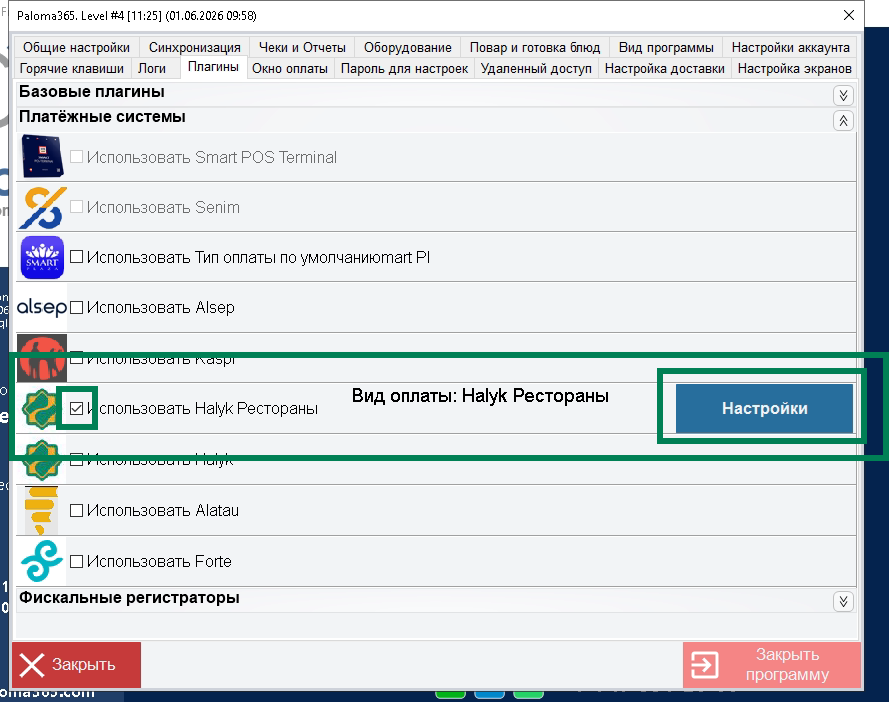
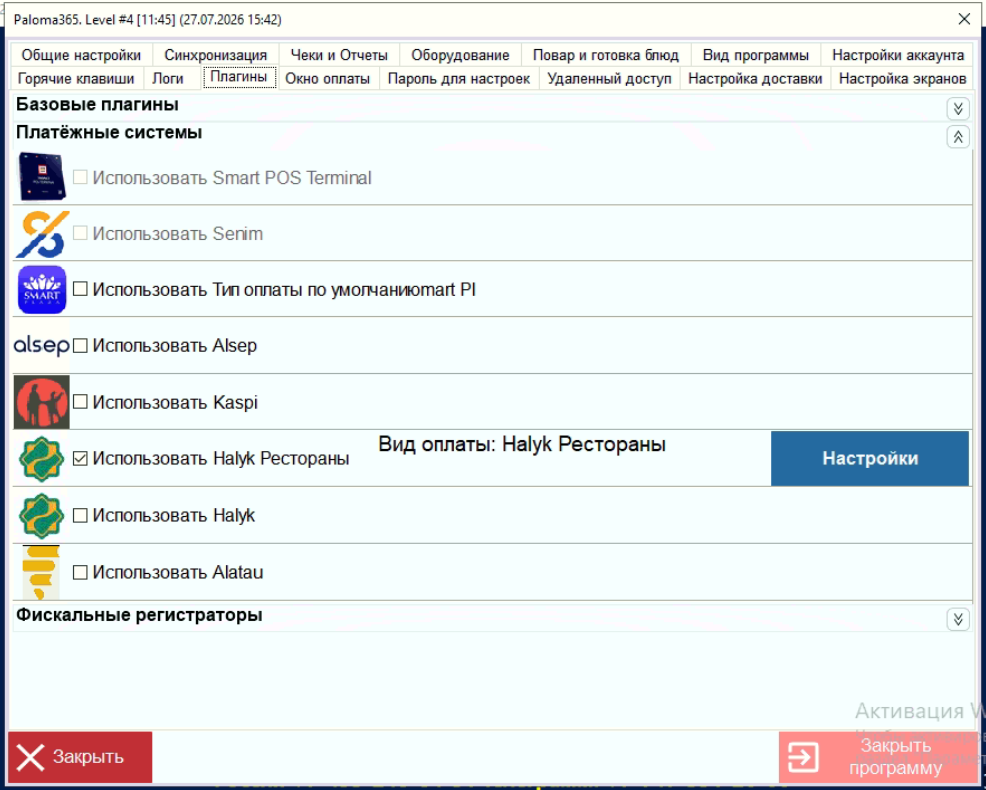
Сверка Paloma365: QR по пречеку в разработке, свежие скриншоты плагина
Claude-Session: https://claude.ai/code/session_018g3M5mndGU9Y8FXsRkuE2M

Changed region(s): [[0.0, 0.0, 1.0, 1.0], [0.3645, 0.5385, 0.6985, 0.5983]]

diff --git a/onboarding/04-tables/README.md b/onboarding/04-tables/README.md
@@ -133,7 +133,7 @@ notion: https://app.notion.com/p/3e4433fe004781d197e8f56616b7d5da
 | <b>iiko</b> | Доступны режимы QR на пречеке, «Общий», «По столам». Если столов нет на портале — перезапуск кассы iiko от имени администратора, затем разработчики Halyk Рестораны. Проверка связи: <b>«Дополнения» → «Cloud connection status»</b>. QR на пречеке требует добавления QR в шаблон пречека (см. ниже). |
 | <b>r\_keeper</b> | В портале — режимы «Общий» и «По столам». Сверяйте столы портала со столами r\_keeper. Проблемы со столами — дилеру и инженеру Halyk Bank. QR по пречеку — уточнить у дилера / инженера. |
 | <b>Poster</b> | В портале — режимы «Общий» и «По столам». QR на пречеке для Poster — в разработке. Сверяйте столы портала со столами Poster. Расхождения — инженеру Halyk Bank. |
-| <b>Paloma365</b> | В портале — режимы «Общий» (гиперссылка на профиль ресторана в HSA) и «По столам» (привязка к физическим столам). Соблюдать нумерацию столов. |
+| <b>Paloma365</b> | В портале — режимы «Общий» (гиперссылка на профиль ресторана в HSA) и «По столам» (привязка к физическим столам). QR на пречеке для Paloma365 — в разработке. Соблюдать нумерацию столов. |
 | <b>ROSTA</b> | Отдельных указаний по привязке столов в источниках нет — применяйте общие правила этого этапа. |
 
 ---

diff --git a/onboarding/02-preparation/paloma365.md b/onboarding/02-preparation/paloma365.md
@@ -21,7 +21,7 @@ notion: https://app.notion.com/p/3e4433fe004781d3b4f0c37f5ee93d0f
 
 1. После обновления откройте **«Меню» → «Настройки» → вкладка «Плагины»**.
 2. В блоке **«Платёжные системы»** включите **«Использовать Halyk Рестораны»**.
-3. Кнопка **«Настройки»** в строке плагина открывает **окно плагина** (поля «Pairing Code», «Вид оплаты», «Меню»; кнопки «Применить» / «Отмена»).
+3. Кнопка **«Настройки»** в строке плагина открывает **окно плагина** (поля «Pairing Code», «Вид оплаты», «Меню»; кнопки «Применить» / «Отмена»). После настройки в строке плагина отображается выбранный вид оплаты, например «Вид оплаты: Halyk Рестораны».
 
 ![Вкладка «Плагины»: «Использовать Halyk Рестораны» и кнопка «Настройки»](images/paloma365-plugins.png)
 

diff --git a/onboarding/01-requirements/README.md b/onboarding/01-requirements/README.md
@@ -41,7 +41,7 @@ erp: "Все ERP"
 | Функция | iiko | r_keeper | Poster | Paloma365 | ROSTA |
 |---|---|---|---|---|---|
 | QR-оплата заказа на столе | ✅ | ✅ | ✅ | ✅ | ✅ |
-| QR-оплата по пречеку | ✅ | ✅ (настройку уточнить у дилера / инженера) | 🚧 в разработке | — | — |
+| QR-оплата по пречеку | ✅ | ✅ (настройку уточнить у дилера / инженера) | 🚧 в разработке | 🚧 в разработке | — |
 | Чаевые | ✅ | ✅ | ✅ | ✅ | ✅ ([телефон сотрудника](../../guides/rosta/tips-employee-phone.md)) |
 | Вызов официанта | ✅ | ✅ | ✅ | ✅ | — |
 | Telegram-уведомления | ✅ | ✅ | ✅ | ✅ | — |
